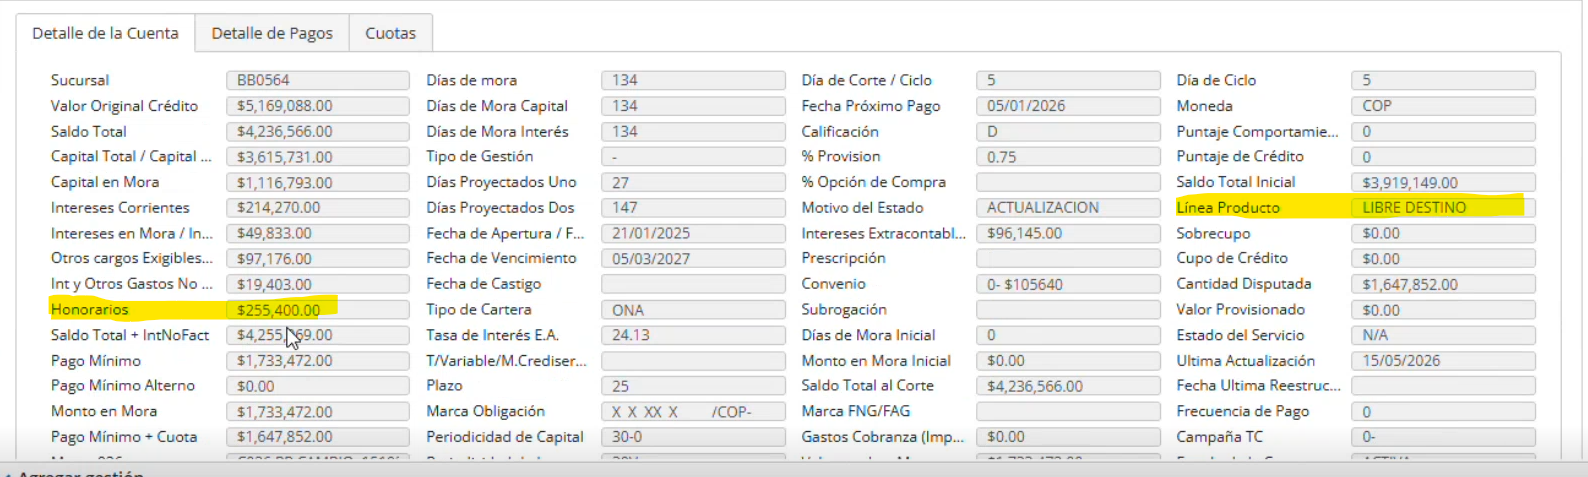
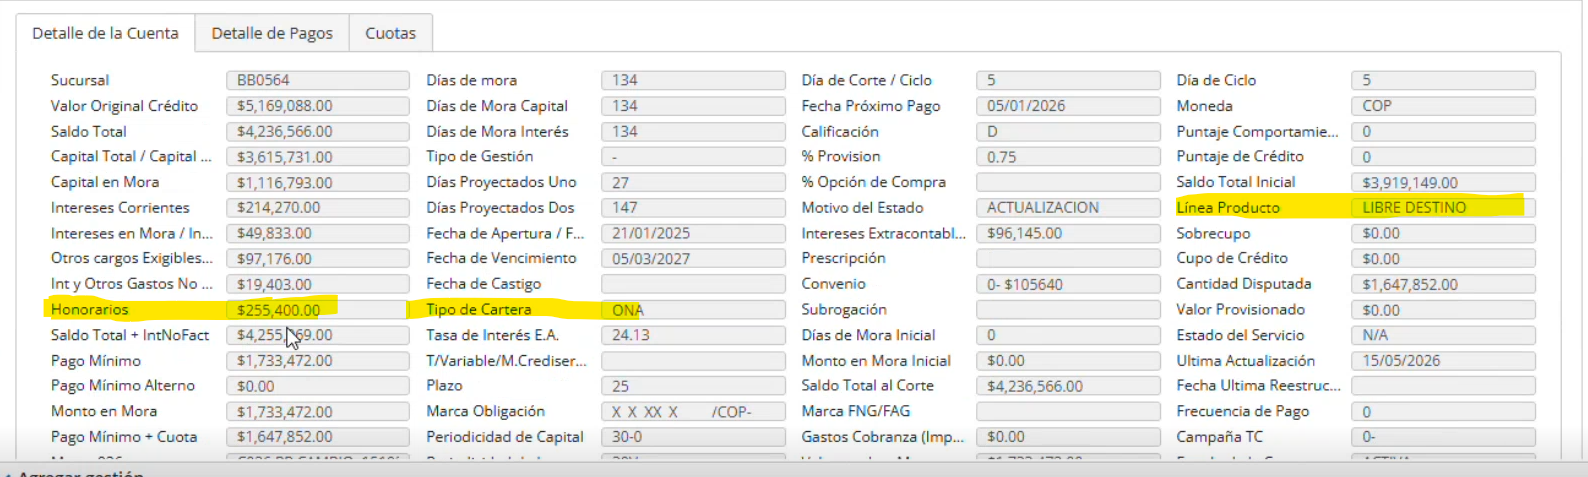
Fix: No

Changed region(s): [[0.2469, 0.6164, 0.4011, 0.6751]]

diff --git a/calculos/honorarios/pagomora/requirements.md b/calculos/honorarios/pagomora/requirements.md
@@ -6,4 +6,15 @@ Campos que se nesecitan para honorarios de ICS
 
     |       Formualas 
     
-Calculos =  
+Calculos =  Restar del pago minimo los honorarios que trae la data 
+(el resultado seria el nuevo pago minimo)
+
+Calculo 2 = (abono minimo * el tipo de producto CONSUMO
+COMERCIAL	VEHICULO) / 100	
+
+El resultado son los honorarios a cobrar
+
+
+
+Campos:
+LineaPagoM